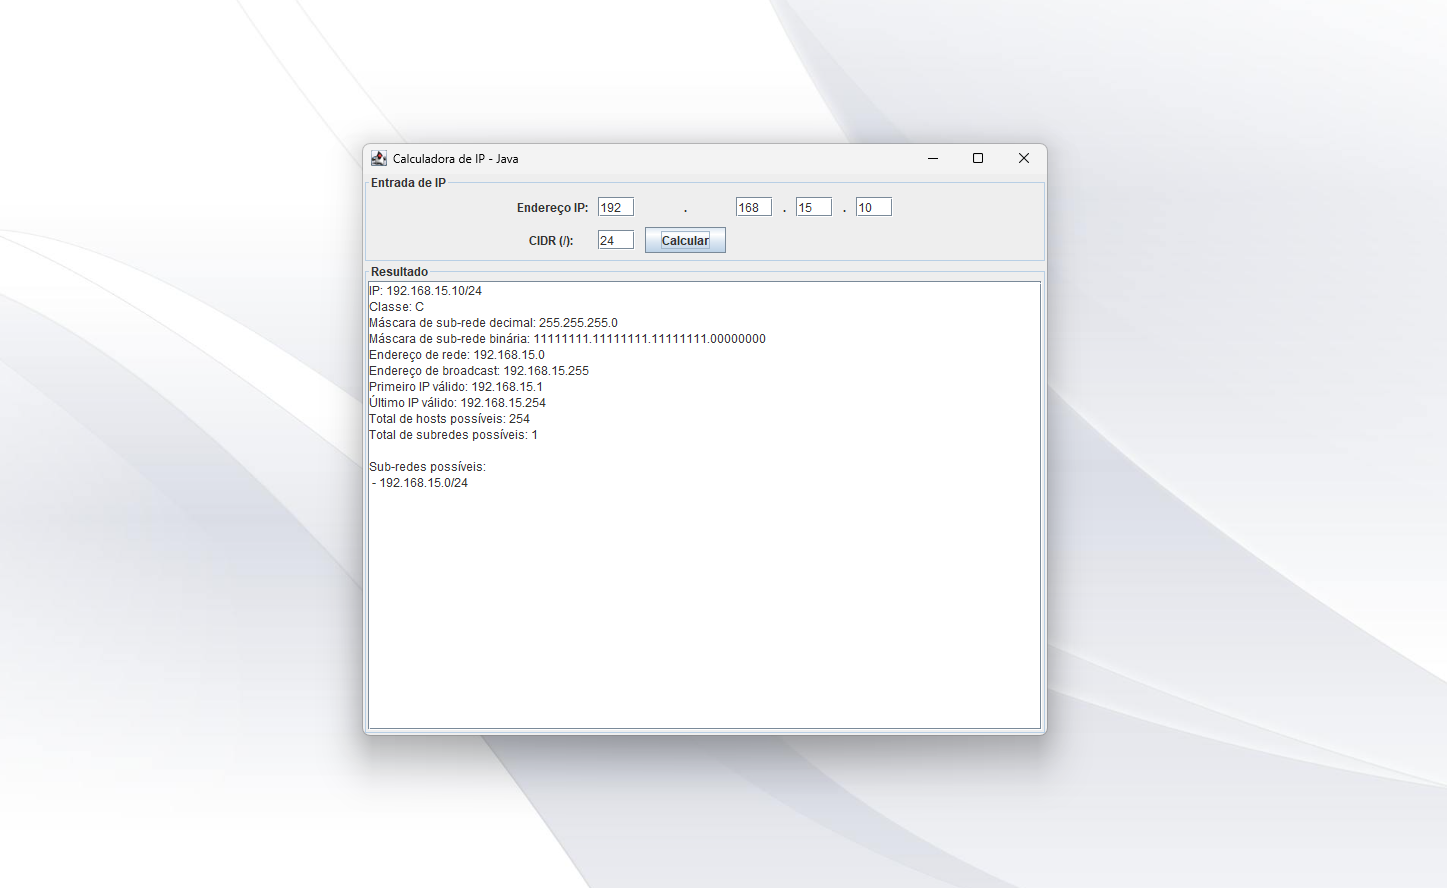
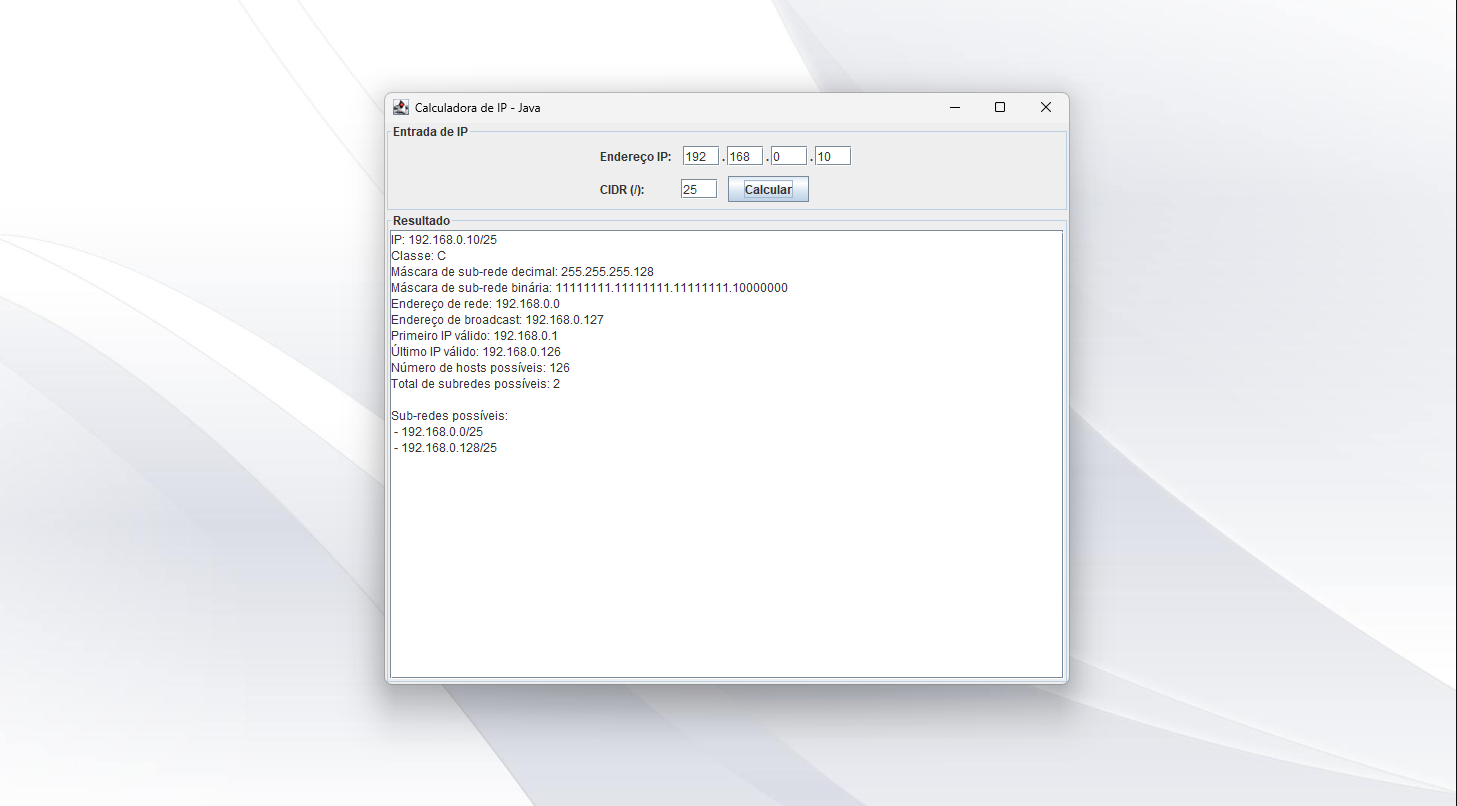
concluido!

diff --git a/src/br/dev/nikolas/IPCalculator/Main.java b/src/br/dev/nikolas/IPCalculator/Main.java
@@ -4,8 +4,8 @@ import javax.swing.*;
 import java.awt.*;
 import java.awt.event.ActionEvent;
 import java.awt.event.ActionListener;
-import java.util.ArrayList;
-import java.util.List;
+import java.util.ArrayList; // Embora não usado no snippet, mantido da original
+import java.util.List;     // Embora não usado no snippet, mantido da original
 
 public class Main {
     public static void main(String[] args) {
@@ -31,26 +31,42 @@ class IPCalculatorGUI {
         inputPanel.setBorder(BorderFactory.createTitledBorder("Entrada de IP"));
 
         GridBagConstraints gbc = new GridBagConstraints();
-        gbc.insets = new Insets(5, 5, 5, 5);
+        gbc.insets = new Insets(5, 5, 5, 5); // Essas insets se aplicam a todos os componentes, mas vamos otimizar
+        gbc.anchor = GridBagConstraints.WEST; // Alinhar componentes à esquerda
+
+        // --- INÍCIO DA CORREÇÃO: Agrupando os octetos e pontos em um JPanel separado ---
+
+        // JLabel para "Endereço IP:"
         gbc.gridx = 0;
         gbc.gridy = 0;
-        gbc.anchor = GridBagConstraints.CENTER;
-
         inputPanel.add(new JLabel("Endereço IP:"), gbc);
-        gbc.gridx++;
+
+        // Criar um JPanel para agrupar os campos de octeto e os pontos
+        // Usamos FlowLayout com pequenos espaçamentos horizontais (hgap) e verticais (vgap)
+        JPanel ipOctetGroupPanel = new JPanel(new FlowLayout(FlowLayout.LEFT, 2, 0)); // hgap=2, vgap=0
 
         for (int i = 0; i < 4; i++) {
-            octets[i] = new JTextField(3);
-            inputPanel.add(octets[i], gbc);
-            gbc.gridx++;
+            octets[i] = new JTextField(3); // JTextField de 3 colunas para cada octeto
+            ipOctetGroupPanel.add(octets[i]); // Adiciona o campo de texto ao painel de grupo
             if (i < 3) {
-                inputPanel.add(new JLabel("."), gbc);
-                gbc.gridx++;
+                ipOctetGroupPanel.add(new JLabel(".")); // Adiciona o ponto ao painel de grupo
             }
         }
 
+        // Adiciona o JPanel de grupo de octetos ao inputPanel principal
+        gbc.gridx = 1; // Coloca o grupo de octetos na próxima coluna
+        gbc.gridwidth = GridBagConstraints.REMAINDER; // Faz com que o grupo ocupe o restante da linha
+        gbc.fill = GridBagConstraints.HORIZONTAL; // Permite que o grupo se estique horizontalmente
+        inputPanel.add(ipOctetGroupPanel, gbc);
+
+        // --- FIM DA CORREÇÃO ---
+
+        // Resetar gridwidth e fill para os próximos componentes, para que não herdem as configurações do ipOctetGroupPanel
+        gbc.gridwidth = 1;
+        gbc.fill = GridBagConstraints.NONE;
+
         gbc.gridx = 0;
-        gbc.gridy++;
+        gbc.gridy++; // Move para a próxima linha para o CIDR
         inputPanel.add(new JLabel("CIDR (/): "), gbc);
         gbc.gridx++;
         cidrField = new JTextField(3);
@@ -91,53 +107,86 @@ class IPCalculatorGUI {
             }
 
             int cidr = Integer.parseInt(cidrField.getText());
-            if (cidr < 1 || cidr > 30) {
-                throw new IllegalArgumentException("CIDR deve estar entre 1 e 30.");
+            // A validação do CIDR aqui pode precisar de ajuste dependendo do seu objetivo.
+            // Para redes /31 e /32, o conceito de "hosts usáveis" muda.
+            // O código original limitava a 30, estou deixando assim para manter sua lógica.
+            if (cidr < 1 || cidr > 32) { // Alterado para 32 para permitir /31 e /32, se quiser. Se não, mantenha 30.
+                throw new IllegalArgumentException("CIDR deve estar entre 1 e 32.");
             }
 
-            int ipInt = (ipParts[0] << 24) | (ipParts[1] << 16) | (ipParts[2] << 8) | ipParts[3];
-            int mask = 0xFFFFFFFF << (32 - cidr);
-            int network = ipInt & mask;
-            int broadcast = network | ~mask;
 
-            int firstIP = network + 1;
-            int lastIP = broadcast - 1;
-            int totalHosts = (int) Math.pow(2, 32 - cidr) - 2;
+            long ipLong = (long)ipParts[0] << 24 | (long)ipParts[1] << 16 | (long)ipParts[2] << 8 | ipParts[3];
+            long mask = 0xFFFFFFFFL << (32 - cidr);
+            long network = ipLong & mask;
+            long broadcast = network | ~mask;
+
+            long firstIP = -1; // Usar -1 para indicar que pode não existir
+            long lastIP = -1; // Usar -1 para indicar que pode não existir
+            long totalHosts = (1L << (32 - cidr)); // Total de endereços na rede
+
+            if (cidr <= 30) { // Para redes com hosts usáveis (excluindo /31 e /32)
+                firstIP = network + 1;
+                lastIP = broadcast - 1;
+                totalHosts -= 2; // Exclui endereço de rede e broadcast
+            } else if (cidr == 31) { // Rede ponto a ponto, ambos IPs usáveis
+                firstIP = network;
+                lastIP = broadcast;
+                totalHosts = 2; // Ambos IPs são usáveis
+            } else if (cidr == 32) { // Rede de host único
+                firstIP = network;
+                lastIP = network;
+                totalHosts = 1; // O próprio IP é o host
+            }
+
 
             // Contagem de subredes baseado na classe e no CIDR
             int classBits = getClassBits(ipParts[0]);
             int subnetBits = cidr - classBits;
             int totalSubnets = subnetBits > 0 ? (int) Math.pow(2, subnetBits) : 1;
+            // Se CIDR for menor que o default da classe (ex: 192.168.1.0/8), o calculo de subredes muda
+            if (cidr < classBits) { // Se o CIDR é menor que a máscara padrão da classe
+                totalSubnets = 1; // Considera como uma única super-rede ou rede principal
+            } else {
+                totalSubnets = (int) Math.pow(2, cidr - classBits);
+            }
+            if (totalSubnets == 0) totalSubnets = 1; // Garante mínimo de 1 sub-rede
+
 
             resultArea.setText("");
-            resultArea.append("IP: " + ipToString(ipInt) + "/" + cidr + "\n");
+            resultArea.append("IP: " + ipToString(ipLong) + "/" + cidr + "\n");
             resultArea.append("Classe: " + getIPClass(ipParts[0]) + "\n");
             resultArea.append("Máscara de sub-rede decimal: " + ipToString(mask) + "\n");
             resultArea.append("Máscara de sub-rede binária: " + maskToBinaryString(mask) + "\n");
             resultArea.append("Endereço de rede: " + ipToString(network) + "\n");
             resultArea.append("Endereço de broadcast: " + ipToString(broadcast) + "\n");
-            resultArea.append("Primeiro IP válido: " + ipToString(firstIP) + "\n");
-            resultArea.append("Último IP válido: " + ipToString(lastIP) + "\n");
-            resultArea.append("Total de hosts possíveis: " + totalHosts + "\n");
+
+            if (totalHosts > 0) { // Apenas mostra se houver hosts usáveis
+                resultArea.append("Primeiro IP válido: " + ipToString(firstIP) + "\n");
+                resultArea.append("Último IP válido: " + ipToString(lastIP) + "\n");
+            } else {
+                 resultArea.append("Não há hosts usáveis nesta rede.\n");
+            }
+            resultArea.append("Número de hosts possíveis: " + totalHosts + "\n");
             resultArea.append("Total de subredes possíveis: " + totalSubnets + "\n");
 
             // Listar subredes (exemplo simples, baseado no número de subredes)
-            if (totalSubnets <= 256) { // Evitar lista muito longa
+            if (totalSubnets > 1 && totalSubnets <= 256) { // Evitar lista muito longa e listar apenas se houver mais de 1
                 resultArea.append("\nSub-redes possíveis:\n");
                 List<String> subnets = generateSubnets(network, cidr, totalSubnets);
                 for (String subnet : subnets) {
                     resultArea.append(" - " + subnet + "\n");
                 }
-            } else {
+            } else if (totalSubnets > 256) {
                 resultArea.append("\nNúmero de subredes muito grande para listar.\n");
             }
 
         } catch (NumberFormatException e) {
-            resultArea.setText("Erro: Entrada inválida. Preencha todos os campos corretamente.");
+            resultArea.setText("Erro: Entrada inválida. Preencha todos os campos corretamente com números.");
         } catch (IllegalArgumentException e) {
             resultArea.setText("Erro: " + e.getMessage());
         } catch (Exception e) {
-            resultArea.setText("Erro inesperado: " + e.getMessage());
+            resultArea.setText("Erro inesperado: " + e.getMessage() + "\n" + e.getClass().getName());
+            e.printStackTrace(); // Para depuração
         }
     }
 
@@ -146,7 +195,8 @@ class IPCalculatorGUI {
         if (firstOctet >= 128 && firstOctet <= 191) return "B";
         if (firstOctet >= 192 && firstOctet <= 223) return "C";
         if (firstOctet >= 224 && firstOctet <= 239) return "D (Multicast)";
-        return "E (Experimental)";
+        if (firstOctet >= 240 && firstOctet <= 255) return "E (Experimental)"; // Adicionado classe E
+        return "Inválida/Reservada"; // Para 0.x.x.x ou outros casos
     }
 
     // Retorna os bits fixos de rede para cada classe (A=8, B=16, C=24)
@@ -154,40 +204,39 @@ class IPCalculatorGUI {
         if (firstOctet >= 1 && firstOctet <= 126) return 8;
         if (firstOctet >= 128 && firstOctet <= 191) return 16;
         if (firstOctet >= 192 && firstOctet <= 223) return 24;
-        return 0; // Classes D e E não são normalmente usadas para subnetting
+        return 0; // Para classes D, E ou IPs inválidos/reservados, não há bits de classe padrão para subnetting tradicional
     }
 
-    private String ipToString(int ip) {
+    private String ipToString(long ip) { // Usando long para evitar overflow com máscara
         return ((ip >>> 24) & 0xFF) + "." +
-               ((ip >>> 16) & 0xFF) + "." +
-               ((ip >>> 8) & 0xFF) + "." +
-               (ip & 0xFF);
+                ((ip >>> 16) & 0xFF) + "." +
+                ((ip >>> 8) & 0xFF) + "." +
+                (ip & 0xFF);
     }
 
     // Converte a máscara para formato binário em 4 octetos
-    private String maskToBinaryString(int mask) {
+    private String maskToBinaryString(long mask) { // Usando long para evitar overflow
         StringBuilder sb = new StringBuilder();
         for (int i = 3; i >= 0; i--) {
-            int octet = (mask >>> (i * 8)) & 0xFF;
-            sb.append(String.format("%8s", Integer.toBinaryString(octet)).replace(' ', '0'));
+            long octet = (mask >>> (i * 8)) & 0xFF;
+            sb.append(String.format("%8s", Long.toBinaryString(octet)).replace(' ', '0'));
             if (i > 0) sb.append(".");
         }
         return sb.toString();
     }
 
     // Gera subredes (endereços de rede) para o número de subredes especificado
-    private List<String> generateSubnets(int network, int cidr, int totalSubnets) {
+    private List<String> generateSubnets(long network, int cidr, int totalSubnets) {
         List<String> subnets = new ArrayList<>();
-        int classBits = getClassBits((network >>> 24) & 0xFF);
-        int subnetBits = cidr - classBits;
         int hostBits = 32 - cidr;
 
         // Tamanho do bloco da subrede em IPs
-        int blockSize = (int) Math.pow(2, hostBits);
+        // Aumenta o tamanho da rede original para o próximo bloco de sub-rede
+        long currentSubnetNetwork = network & (0xFFFFFFFFL << (32 - cidr)); // Garante que comece no limite da rede
 
         for (int i = 0; i < totalSubnets; i++) {
-            int subnetAddr = (network & (0xFFFFFFFF << (32 - classBits))) | (i << hostBits);
-            subnets.add(ipToString(subnetAddr) + "/" + cidr);
+            subnets.add(ipToString(currentSubnetNetwork) + "/" + cidr);
+            currentSubnetNetwork += (1L << hostBits); // Adiciona o tamanho do bloco para a próxima sub-rede
         }
 
         return subnets;
